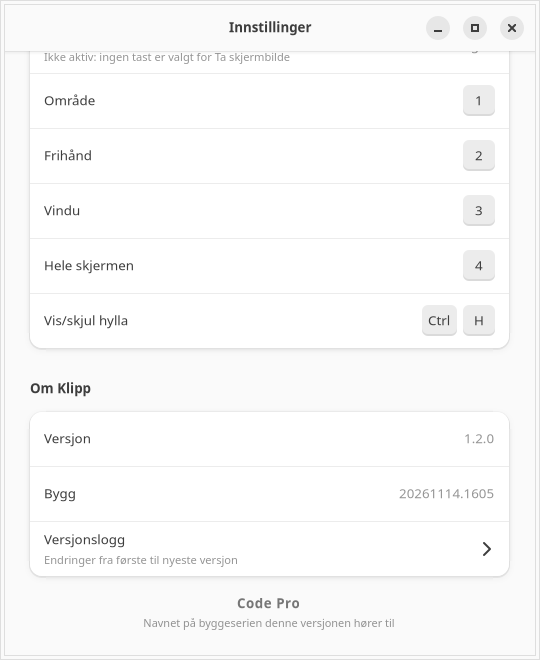
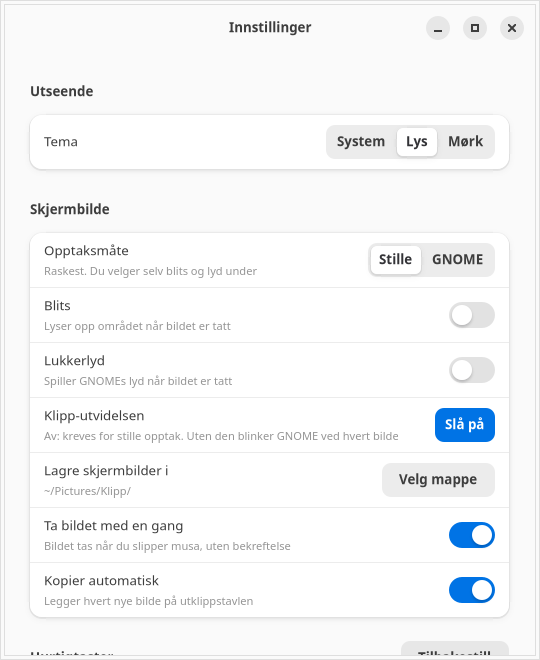
Agentic Klipp 1.2.1: vanlig tekst i versjonsloggen og nye README-bilder
Slå av tekstmarkering i hele versjonsloggen, slik at overskriften ikke
får automatisk blå markering og teksten ikke tar tekstfokus.
Fjern innledningsteksten og vis nyeste versjon øverst i appen og på GitHub.

Vis toppen av Innstillinger og annoteringsmodus som README-bilde 2 og 3.
Oppdater versjon, byggreferanse, versjonslogg og release-dokumentasjon.

diff --git a/crates/klipp-system/src/history.rs b/crates/klipp-system/src/history.rs
@@ -1,4 +1,4 @@
-//! Den samme versjonsloggen som følger kildekoden, vist fra eldst til nyest.
+//! Den samme versjonsloggen som følger kildekoden, vist fra nyest til eldst.
 
 use adw::prelude::*;
 use gtk::{gdk, glib};
@@ -85,7 +85,7 @@ fn parse(source: &str) -> (Vec<Block>, Vec<Release>) {
             continuation = true;
         }
     }
-    releases.sort_by_key(|release| version_key(&release.heading));
+    releases.sort_by_key(|release| std::cmp::Reverse(version_key(&release.heading)));
     (intro, releases)
 }
 
@@ -93,7 +93,7 @@ fn label(text: &str) -> gtk::Label {
     gtk::Label::builder()
         .label(text)
         .use_markup(false)
-        .selectable(true)
+        .selectable(false)
         .xalign(0.0)
         .wrap(true)
         .wrap_mode(gtk::pango::WrapMode::WordChar)
@@ -227,13 +227,13 @@ mod tests {
     use super::*;
 
     #[test]
-    fn release_order_uses_version_numbers_and_preserves_intro() {
+    fn release_order_is_newest_first_and_preserves_intro() {
         let (intro, releases) = parse(
-            "# Versjonslogg\n\nFra eldst til nyest.\n\n## 1.10.0 — 2026-11-14\n- Nytt\n\n## 1.2.0 — Tidlig lokal versjon\n- Først\n",
+            "# Versjonslogg\n\nFra nyest til eldst.\n\n## 1.2.0 — Tidlig lokal versjon\n- Først\n\n## 1.10.0 — 2026-11-14\n- Nytt\n",
         );
-        assert_eq!(intro, vec![Block::Paragraph("Fra eldst til nyest.".into())]);
-        assert_eq!(releases[0].heading, "1.2.0 — Tidlig lokal versjon");
-        assert_eq!(releases[1].heading, "1.10.0 — 2026-11-14");
+        assert_eq!(intro, vec![Block::Paragraph("Fra nyest til eldst.".into())]);
+        assert_eq!(releases[0].heading, "1.10.0 — 2026-11-14");
+        assert_eq!(releases[1].heading, "1.2.0 — Tidlig lokal versjon");
     }
 
     #[test]

diff --git a/README.md b/README.md
@@ -1,6 +1,6 @@
 # Agentic Klipp
 
-[![Versjon](https://img.shields.io/badge/versjon-1.2.0-3584e4)](https://github.com/bejulian1/agentic-klipp/releases/tag/v1.2.0)
+[![Versjon](https://img.shields.io/badge/versjon-1.2.1-3584e4)](https://github.com/bejulian1/agentic-klipp/releases/tag/v1.2.1)
 [Versjonslogg](CHANGELOG.md) · [Last ned](https://github.com/bejulian1/agentic-klipp/releases/latest) · [Bidragsytere](CONTRIBUTORS.md)
 
 Skjermbildeverktøy for Ubuntu og GNOME, laget for å gi skjermbilder til AI-kodeagenter.
@@ -27,13 +27,13 @@ Hovedvinduet med bildehylla:
 
 ![Agentic Klipp – hovedvindu og bildehylle](docs/images/hovedvindu.png)
 
-Innstillinger med versjon, byggnummer og knappen til versjonsloggen:
+Innstillinger med tema og valg for skjermbilder:
 
-![Agentic Klipp – Innstillinger og Om Klipp](docs/images/innstillinger.png)
+![Agentic Klipp – toppen av Innstillinger](docs/images/innstillinger.png)
 
-Versjonsloggen viser historikken fra eldste til nyeste:
+Annoteringsmodus med tegneverktøy, farger og markeringer:
 
-![Agentic Klipp – versjonslogg](docs/images/versjonslogg.png)
+![Agentic Klipp – annoteringsmodus](docs/images/annotering.png)
 
 Bildene er fra appen med egne demobilder i en isolert profil.
 
@@ -66,8 +66,8 @@ Til slutt, én gang: åpne **Innstillinger** i Klipp, trykk **Slå på** på rad
 [Nyeste release](https://github.com/bejulian1/agentic-klipp/releases/latest) inneholder:
 
 - `klipp`: selve Linux-binæren.
-- `agentic-klipp-1.2.0-linux-x86_64.tar.gz`: komplett installasjonsarkiv med binær, ikoner og GNOME-utvidelse.
-- `agentic-klipp_1.2.0+20261114.1605_amd64.deb`: Ubuntu-pakke.
+- `agentic-klipp-1.2.1-linux-x86_64.tar.gz`: komplett installasjonsarkiv med binær, ikoner og GNOME-utvidelse.
+- `agentic-klipp_1.2.1+20261114.1641_amd64.deb`: Ubuntu-pakke.
 - `SHA256SUMS`: kontrollsummer for de tre filene.
 
 Enklest uten å bygge: pakk ut installasjonsarkivet og kjør dette i den utpakkede mappen:
@@ -79,7 +79,7 @@ Enklest uten å bygge: pakk ut installasjonsarkivet og kjør dette i den utpakke
 Alternativt kan Ubuntu-pakken installeres med:
 
 ```sh
-sudo apt install ./agentic-klipp_1.2.0+20261114.1605_amd64.deb
+sudo apt install ./agentic-klipp_1.2.1+20261114.1641_amd64.deb
 ```
 
 Bruk én installasjonsmåte om gangen. Har du installert under `~/.local` tidligere og
@@ -375,20 +375,20 @@ cargo clippy --workspace --all-targets
 | `data/` | Ikoner, CSS og GResource |
 | `prototype/` | HTML-prototypen som er fasit for utseendet |
 
-Versjon **1.2.0**, release-bygg **20261114.1605**. Versjonen står i alle tre
+Versjon **1.2.1**, release-bygg **20261114.1641**. Versjonen står i alle tre
 `Cargo.toml`-filene. Byggnummeret er byggetidspunktet i Europe/Oslo, og kan fastsettes
 for en release med `KLIPP_BUILD_NUMBER=YYYYMMDD.HHMM`. Begge vises under
 Innstillinger > Om Klipp og med `klipp --version`.
 
 Klikk **Innstillinger > Om Klipp > Versjonslogg** for å åpne historikken i et eget vindu.
 Loggen følger med appen og virker uten internett. Den hentes fra [CHANGELOG.md](CHANGELOG.md),
-som også er versjonsloggen på GitHub. Rekkefølgen er eldste til nyeste.
+som også er versjonsloggen på GitHub. Nyeste versjon vises øverst, eldste nederst.
 Versjon 1.0.0 er omtalt i kildekoden, men har ingen bevart publiseringsdato.
 
 ### Lage release-pakker
 
 ```sh
-KLIPP_BUILD_NUMBER=20261114.1605 cargo build --release --locked
+KLIPP_BUILD_NUMBER=20261114.1641 cargo build --release --locked
 bash scripts/package-release.sh
 ```
 
@@ -403,7 +403,7 @@ Debian/apt-register; `.deb`-filen lastes derfor ned fra Releases. Se
 **Julian / [bejulian1](https://github.com/bejulian1)** eier prosjektet og står for
 produktvalg og utprøving. **Claude Opus 5.5 / Claude Code** laget den opprinnelige
 implementasjonen. **Codex / OpenAI**, med **GPT-6.1 Sol**, bidro med versjonslogg,
-versjon 1.2.0, dokumentasjon og release-pakking.
+versjon 1.2.1, dokumentasjon og release-pakking.
 
 Se [CONTRIBUTORS.md](CONTRIBUTORS.md) for kreditering. GitHubs automatiske Contributors-liste
 styres av commitforfattere og koblede GitHub-kontoer.

diff --git a/CHANGELOG.md b/CHANGELOG.md
@@ -1,14 +1,22 @@
 # Versjonslogg
 
-Historikken vises fra eldste til nyeste, både her og under Innstillinger → Om Klipp → Versjonslogg.
-Bare versjoner som kan bekreftes i kildekoden, Git-historikken eller GitHub Releases er tatt med.
+## 1.2.1 — 2026-11-14
 
-## 1.0.0 — Tidlig lokal versjon
+- Teksten i versjonsloggen kan ikke markeres eller få tekstfokus.
+- Fjernet den blå tekstmarkeringen som kom automatisk øverst ved åpning.
+- Fjernet innledningsteksten over versjonene.
+- Nyeste versjon vises øverst, eldste nederst.
+- README viser hovedvinduet, toppen av Innstillinger og annoteringsmodus.
 
-Første lokale versjon, omtalt i konfigurasjonsmigreringen. Nøyaktig dato og full endringsliste er ikke bevart i Git-historikken.
+## 1.2.0 — 2026-11-14
 
-- Den globale hurtigtasten var Super+Shift+K.
-- Hylla var bred som standard, og opptak hadde et eget bekreftelsessteg.
+- Ny klikkbar Versjonslogg under Innstillinger → Om Klipp.
+- Eget rullbart vindu med versjonene fra eldste til nyeste og gjeldende versjon og byggnummer.
+- Samme innebygde versjonslogg i appen og på GitHub, også tilgjengelig uten internett.
+- Felles versjon 1.2.0 for appen og de interne bibliotekene.
+- Byggnummer kan fastsettes ved release; lokale bygg bruker tidspunktet i Europe/Oslo.
+- Oppdatert README med tre skjermbilder og kreditering av Claude og Codex.
+- Release-pakker med Linux-binær, installasjonsarkiv, Debian-pakke og SHA-256-kontrollsummer.
 
 ## 1.1.1 — 2026-11-08
 
@@ -22,12 +30,9 @@ Første taggede og publiserte GitHub-versjon. Oppsummerer også utviklingen i 1.
 - Minimer-knapp og signaturen Code Pro under Om Klipp.
 - Installasjonsskript som sjekker avhengigheter, bygger, installerer og starter appen.
 
-## 1.2.0 — 2026-11-14
+## 1.0.0 — Tidlig lokal versjon
 
-- Ny klikkbar Versjonslogg under Innstillinger → Om Klipp.
-- Eget rullbart vindu med versjonene fra eldste til nyeste og gjeldende versjon og byggnummer.
-- Samme innebygde versjonslogg i appen og på GitHub, også tilgjengelig uten internett.
-- Felles versjon 1.2.0 for appen og de interne bibliotekene.
-- Byggnummer kan fastsettes ved release; lokale bygg bruker tidspunktet i Europe/Oslo.
-- Oppdatert README med tre skjermbilder og kreditering av Claude og Codex.
-- Release-pakker med Linux-binær, installasjonsarkiv, Debian-pakke og SHA-256-kontrollsummer.
+Første lokale versjon, omtalt i konfigurasjonsmigreringen. Nøyaktig dato og full endringsliste er ikke bevart i Git-historikken.
+
+- Den globale hurtigtasten var Super+Shift+K.
+- Hylla var bred som standard, og opptak hadde et eget bekreftelsessteg.

diff --git a/CONTRIBUTORS.md b/CONTRIBUTORS.md
@@ -2,6 +2,6 @@
 
 - **Julian / [bejulian1](https://github.com/bejulian1)** — prosjekteier, produktvalg og utprøving.
 - **Claude Opus 5.5 / Claude Code (Anthropic)** — opprinnelig implementasjon og utvikling til og med 1.1.1. Kreditert i den eksisterende Git-commiten.
-- **Codex (OpenAI), med GPT-6.1 Sol** — versjonslogg i Innstillinger, versjon 1.2.0, dokumentasjon og release-pakking.
+- **Codex (OpenAI), med GPT-6.1 Sol** — versjonslogg i Innstillinger, 1.2-serien, dokumentasjon og release-pakking.
 
 Claude og Codex er AI-verktøy brukt i utviklingen. GitHubs automatiske Contributors-liste bygger på commitforfattere og kontoer; denne siden krediterer også AI-bidragene.
